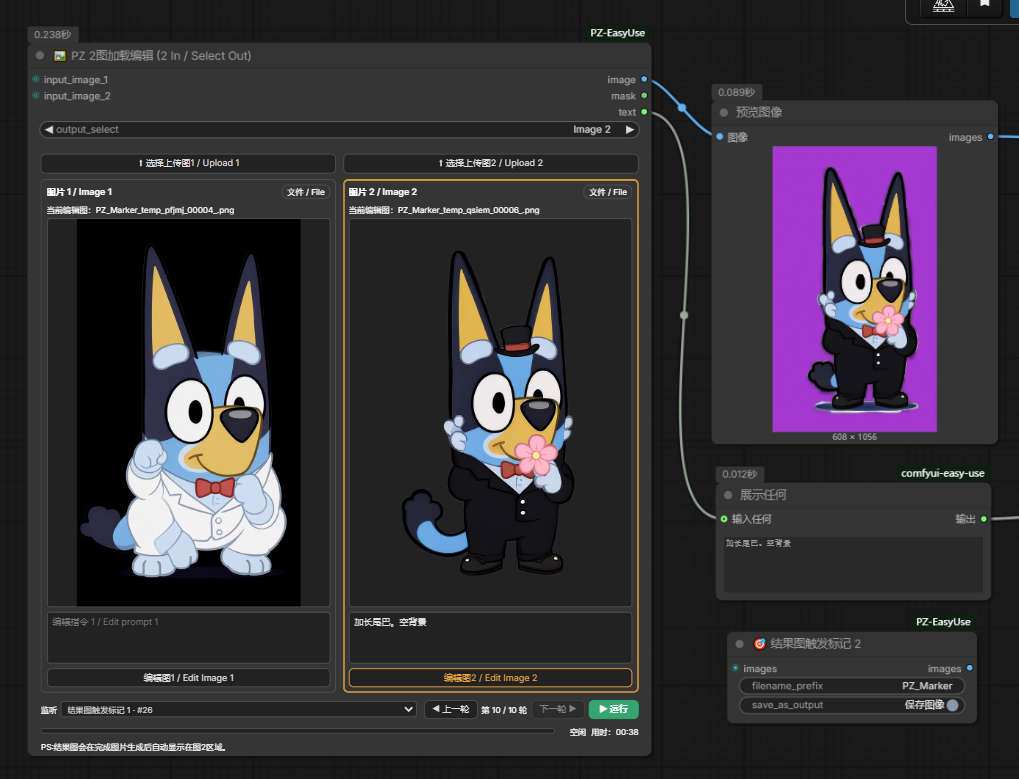
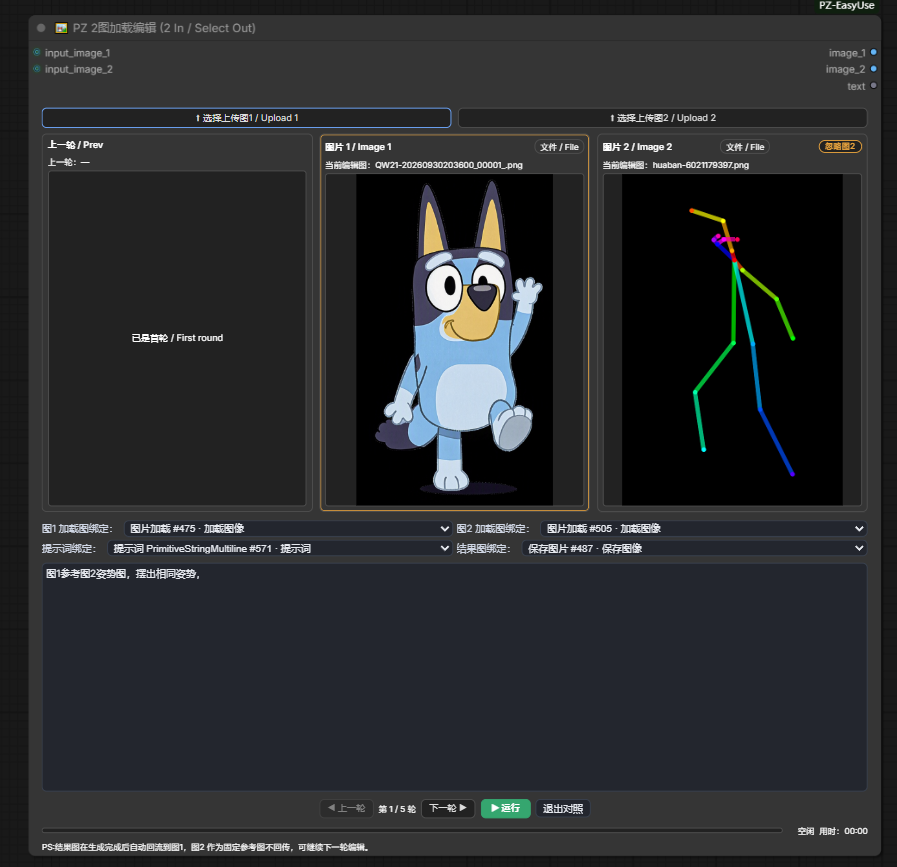
docs: 重写 PZ_Dual_Image_Loader 功能说明并更新界面截图（图1 编辑目标 / 图2 固定参考 + 图2 忽略同步）

diff --git a/README.md b/README.md
@@ -20,13 +20,12 @@
 
 新增并重构 **PZ 2图加载编辑 (PZ Dual Image Loader)**，并新增配套节点 **🎯 结果图触发标记 (PZ_Listen_Marker)**：
 
-- 一次可以加载两张图， 写编辑指令，结果图在生成完成后自动回流到图2区域，可直接继续编辑
-- 输出 `image / mask / text(STRING)`
-- 顶部两个“选择上传图N”按钮；图片框标题下显示 `当前编辑图：xxx.png`
-- `编辑图1 / 编辑图2` 按钮切换编辑目标（同时决定输出哪张图）
-- 底部 `监听` 下拉 + `上一轮 / 下一轮`（历史结果图）+ `运行` 按钮
-- 进度条显示 `节点 名字：35%`，右侧显示本次任务 `用时：00:12`
-- 结果图在生成完成后自动回流到图2区域，可直接继续编辑
+- 一次加载两张图并写编辑指令：图1 为编辑目标（结果图自动回流到图1），图2 为固定参考图，可继续下一轮编辑
+- 输出 `image_1 / image_2 / text(STRING)`
+- 顶部两个“选择上传图N”按钮；图片框标题下显示 `当前编辑图：xxx.png`；图2 右上角可 `忽略图2`
+- 无需连线：自动劫持图片加载 / 提示词 / 保存图片节点，中部绑定下拉可手动更换目标
+- 底部 `◀ 上一轮 / 第 N/M 轮 / 下一轮 ▶ / ▶ 运行 / 对照` 按钮；右下角显示本次任务 `用时：00:12`
+- 图2 忽略可与绑定的图片加载节点双向同步；被忽略的加载节点仍保留在绑定下拉中并标注“已忽略”
 - 结果图触发标记节点：图片透传，接在保存图片前后均可，开关可切换“保存图像 / 预览图像”
 <img src="./images/PZ_Dual_Image_Loader.png" />
 2026年9月6日：
@@ -71,7 +70,7 @@ Generator List (Batch List)：“生成数组/List，一次给 K 采样器，一
     *   **批量图生图**: 指定本地文件夹路径，自动循环读取文件夹内的图片进行逐张处理(异步多任务挂起)。暂只支持Iterate (JS Loop)模式
     *   **JS 自动调度**: 独家内置 JS 队列劫持技术，一次点击 Queue 即可自动派发成百上千个任务。
     *   **极简模式**: 支持纯文生图 (Text-Only) 和 批量目录 (Directory Batch) 模式切换。
-*   🖼 **PZ 2图加载编辑**: 双图加载 + 编辑指令，结果图自动回流；可监听指定保存图片/标记节点，支持上一轮/下一轮回溯、进度与用时显示。
+*   🖼 **PZ 2图加载编辑**: 双图加载 + 编辑指令——图1 为编辑目标（结果图自动回流）、图2 为固定参考图（可忽略并与加载节点双向同步）；可监听指定保存图片/标记节点，支持上一轮/下一轮回溯、上一轮对照、进度与用时显示。
 *   🖼 **PZ 单图加载编辑**: 放进工作流区即用、无需连线，自动劫持图片加载 / 提示词 / 保存图片节点；可手动更改劫持目标，结果图自动回流迭代。
 *   🎨 **LoRA & Prompt 动态组**: 支持多达 50 组的动态 LoRA 和 Prompt 加载器，告别面条式连线。
 *   💾 **智能保存**: 增强版图片保存节点，支持自定义前缀和更灵活的路径管理。
@@ -79,40 +78,56 @@ Generator List (Batch List)：“生成数组/List，一次给 K 采样器，一
 
 ## 🖼 PZ 2图加载编辑 (Dual Image Loader)
 
-用于 **“生成 → 看图 → 继续改图”** 的迭代流程：一次加载两张图、写编辑指令，运行后结果图自动回到节点里图2位置接着改。**无需任何连线**：节点放入工作流区即自动劫持图片加载节点、提示词文本节点、保存图片节点，也可手动更改劫持目标。
+双图迭代编辑的**零连线**版本：用法与 **PZ 单图加载编辑 (Single Image Loader)** 一致，区别是**可同时加载两张图**——图1 是**编辑目标**（结果图自动回流到图1），图2 是**固定参考图**（例如姿势 / 风格参考，不参与回流）。运行后结果图自动回到图1，可继续下一轮编辑。放入工作流区即**自动劫持**图片加载节点、提示词文本节点、保存图片节点，**无需任何连线**；也可手动更改劫持目标。
 
-**图2 忽略双向同步**：图2 区域右上角「忽略图2」开关开启后，图2 预览变灰并停止与图2 加载源的双向同步；该开关会与绑定的图片加载节点**双向同步忽略 / 恢复**（忽略图2 ⇄ 把加载节点 Mute，互相同步）。被忽略的加载节点仍保留在「图2 加载图绑定」下拉中并标注“已忽略”，不会丢失绑定。兼容 rgthree 节点控制器等节点的 Mute / Bypass 忽略状态。
+**图2 忽略双向同步**：不需要参考图时，打开图2 右上角的 `忽略图2`，图2 预览变灰、停止与图2 加载源的双向同步，工作流只使用 `image_1 + 提示词`；该开关会与绑定的图片加载节点**双向同步忽略 / 恢复**（忽略图2 ⇄ 把加载节点 Mute）。被忽略的加载节点仍保留在「图2 加载图绑定」下拉中并标注“已忽略”，不会丢失绑定。兼容 rgthree 节点控制器等节点的 Mute / Bypass 忽略状态。
 
 <img src="./images/PZ_Dual_Image_Loader.png" />
 
-*PZ 2图加载编辑运行界面：双图预览 + 编辑指令、底部“监听”下拉 / 上一轮 / 下一轮 / 运行，右下角显示进度与用时*
+*PZ 2图加载编辑运行界面：左侧「上一轮」对照 + 中间 图1（编辑目标）+ 右侧 图2（固定参考，可忽略）；中部源选择下拉（图1 / 图2 加载图绑定、提示词绑定、结果图绑定）；底部 `上一轮 / 第 N/M 轮 / 下一轮 / 运行 / 退出对照`*
 
 ### 涉及节点
 
 | 节点 | 说明 |
 | --- | --- |
-| 🖼 PZ Dual Image Loader (2 In / Select Out) | 双图加载 + 编辑指令 + 结果图回流 |
+| 🖼 PZ Dual Image Loader (2 In / Select Out) | 双图加载 + 编辑指令，结果图回流到图1 |
 | 🎯 结果图触发标记 (PZ_Listen_Marker) | 图片透传，标记“这里的结果图要回流” |
+
+### 主要功能
+
+- **自动劫持图片加载节点**：分别监听图1 / 图2 两个**图片加载**节点，随其换图实时跟随；结果图回流写回图1 的加载节点。
+- **自动劫持提示词节点**：自动选中**提示词文本**节点作为编辑指令来源，双向同步。
+- **自动劫持保存图片节点**：自动选中保存图片节点，其输出结果图自动回流到本节点图1。
+- **无需连线，直接运行**：以上节点全部通过“劫持”自动关联，节点放进工作流区即可跑。
+- **可手动更改劫持目标**：中部下拉可分别指定 `图1 加载图绑定 / 图2 加载图绑定 / 提示词绑定 / 结果图绑定`，避免自动劫持到错误节点。
+- **迭代闭环**：运行后结果图回流到**图1** 并写回图1 加载节点，使工作流源图随编辑迭代更新；图2 作为**固定参考图不回传**。`上一轮 / 下一轮` 可回看历史轮次。
+- **图2 忽略开关**：`忽略图2` 让图2 变灰并退出工作流（仅 `image_1 + 提示词` 参与），可与绑定的加载节点双向同步忽略 / 恢复。
+- **对照模式**：`对照 / 退出对照` 把上一轮结果图与当前编辑图并排比对。
+- **进度与用时**：右下角显示本次运行 `用时：00:12`。
 
 ### 界面说明
 
-1. **顶部**：`⬆ 选择上传图1` / `⬆ 选择上传图2`。某个图接了上游连线时按钮自动置灰（此时图片来自连线）。
-2. **图片框**：预览图 → 标题下的 `当前编辑图：xxx.png` → 编辑指令输入框 → `编辑图1 / 编辑图2` 按钮。橙色高亮的框就是当前编辑目标。
-3. **源选择行（劫持绑定，无需连线）**：节点放入工作流区即自动劫持对应节点，也可手动更改：
-   - `加载图绑定`：劫持第一个**图片加载**节点 → 作为图1 源（随其换图实时跟随）。
-   - `图2 加载图绑定`（双图版独有）：劫持第二个**图片加载**节点 → 作为图2 源。
+1. **顶部**：`⬆ 选择上传图1 / Upload 1`、`⬆ 选择上传图2 / Upload 2`，可为图1 / 图2 手动选择并上传图片；某张图接了上游连线时按钮自动置灰，右上角徽章由 `文件 / File` 变为 `接入 / Linked`（此时图片来自连线）。
+2. **预览区（三列）**：
+   - 左列 `上一轮 / Prev`：上一轮结果图，用于对照；首轮显示 `已是首轮 / First round`。
+   - 中列 `图1 / Image 1`（橙框）：**当前编辑目标**，标题下显示 `当前编辑图：xxx.png`。
+   - 右列 `图2 / Image 2`：**固定参考图**，右上角有 `忽略图2` 开关。
+3. **源选择（劫持绑定，无需连线）**：节点放入工作流区即自动劫持对应节点，也可手动更改：
+   - `图1 加载图绑定`：劫持第一个**图片加载**节点 → 图1 源（结果回流写回它）。
+   - `图2 加载图绑定`（双图版独有）：劫持第二个**图片加载**节点 → 图2 参考源。
    - `提示词绑定`：劫持**提示词文本**节点 → 作为编辑指令来源，双向同步。
    - `结果图绑定`：劫持**保存图片 / 标记**节点，接收其输出结果图回流。
    - 每个下拉都有 `— 不监听 —`，选它即停止劫持、改回手动选图。
-4. **底部一行**：`◀ 上一轮` / `下一轮 ▶`（在本节点历史结果图间前后翻，最多保留 60 轮）、`▶ 运行`（等同工具栏运行）。
-5. **进度条**：运行中显示 `节点 名字：35%`；右侧 `用时：00:12` 从执行开始计时，到本次任务结束停表。
-6. **说明行**：结果图会在生成完成后自动显示在图2区域（并写回图2 加载源节点，使其随编辑迭代）。
+4. **编辑指令框**：源选择行下方的大文本框，写本轮编辑指令（如“参考图2 姿势图，摆出相同姿势”）。
+5. **按钮行**：`◀ 上一轮` / `第 N/M 轮` / `下一轮 ▶`（在本节点历史结果图间前后翻，最多保留 60 轮）、`▶ 运行`（等同工具栏运行）、`对照 / 退出对照`。
+6. **说明行**：`结果图在生成完成后自动回流到图1，图2 作为固定参考图不回传，可继续下一轮编辑。`
 
 ### 输出
 
-- `image`：按编辑目标输出图1 或图2；`output_select` 选 `Both (batch)` 时两张一起输出。
-- `mask`：对应图片的遮罩。
-- `text`：`编辑图1 / 编辑图2` 对应的编辑指令文本，可直接接到文本 / 提示词输入。
+- `image_1` / `image_2`：图1 / 图2 的图片。
+- `text`：编辑指令文本（STRING），可直接接到文本 / 提示词输入。
+
+> 输入参数另含 `listen_source`（结果图监听来源：保存图片节点 / 标记节点）与 `disable_image_2`（忽略图2），一般用界面上的开关即可，无需手动改。
 
 ### 结果图触发标记 (PZ_Listen_Marker)
 
@@ -123,9 +138,9 @@ Generator List (Batch List)：“生成数组/List，一次给 K 采样器，一
 ### 典型用法
 
 1. `VAE Decode → 🎯 结果图触发标记 → 保存图像`（标记节点接在保存图片前后都行）。
-2. Dual Image Loader 的 `监听` 下拉里选择这个标记节点，或某个保存图片节点。
-3. 图1 放原图、写好编辑指令 → 点 `▶ 运行`。
-4. 生成结束后结果图自动回流到**图2**，直接继续改图；`上一轮 / 下一轮` 可以回看之前的结果。
+2. 在 Dual Image Loader 的 `结果图绑定` 下拉里选择这个标记节点，或某个保存图片节点。
+3. 图1 放编辑目标图、图2 放参考图（不需要参考图就打开 `忽略图2`），写好编辑指令 → 点 `▶ 运行`。
+4. 生成结束后结果图自动回流到**图1**，可直接继续改图；`上一轮 / 下一轮` 可回看历史结果，`对照 / 退出对照` 可并排比对上一轮。
 
 > 提示：改动前端 JS 后浏览器按 `Ctrl + F5` 强刷；改动 Python（新增节点/参数）后需要重启 ComfyUI。
 
